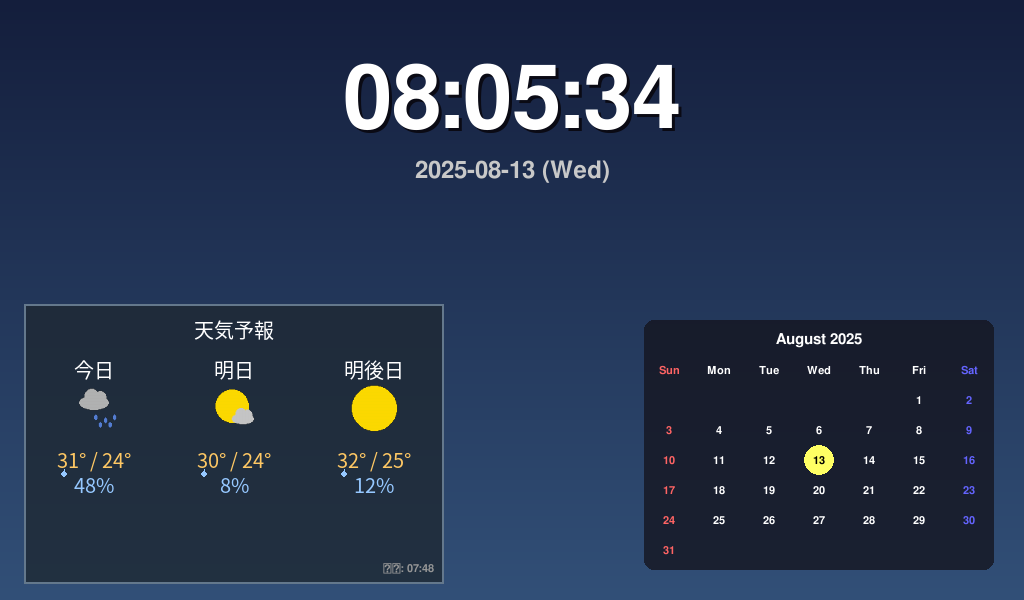
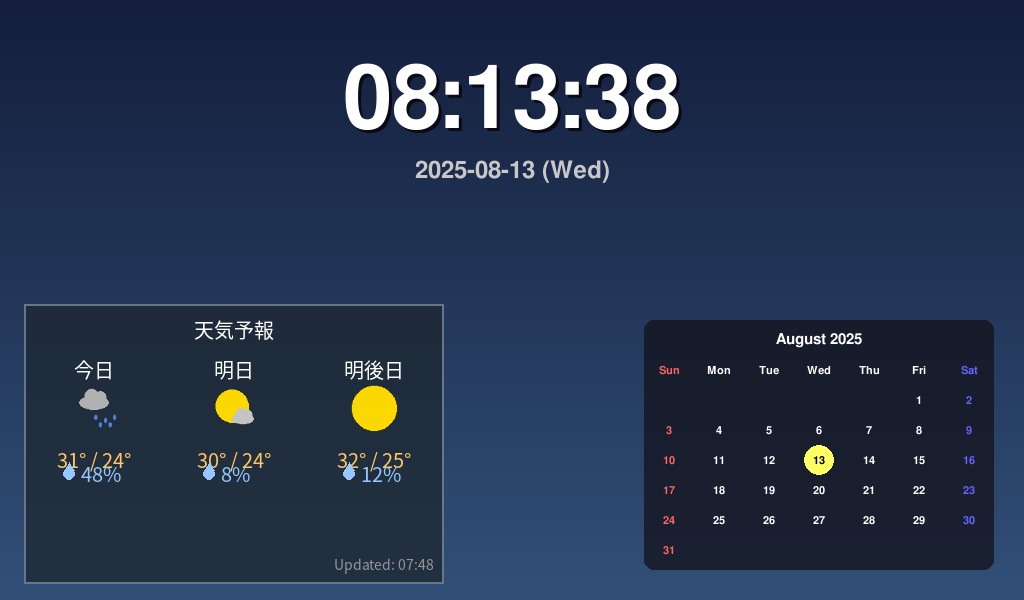
Fix overlapping text between temperature and precipitation
- Adjusted temperature position from y+90 to y+85
- Moved precipitation display from y+118 to y+125
- Increased spacing between temperature and precipitation for better readability

🤖 Generated with Claude Code

diff --git a/src/renderers/simple_weather_renderer.py b/src/renderers/simple_weather_renderer.py
@@ -331,7 +331,7 @@ class SimpleWeatherRenderer:
             temp_min = forecast.get('temp_min', 0)
             temp_text = f"{temp_max:.0f}° / {temp_min:.0f}°"
             temp_surface = self.font.render(temp_text, True, (255, 200, 100))
-            temp_rect = temp_surface.get_rect(centerx=x + day_width // 2, y=y + 90)
+            temp_rect = temp_surface.get_rect(centerx=x + day_width // 2, y=y + 85)
             screen.blit(temp_surface, temp_rect)
             
             # 降水確率
@@ -339,7 +339,7 @@ class SimpleWeatherRenderer:
             if precip > 0:
                 # より大きな雨滴アイコンを描画
                 drop_x = x + day_width // 2 - 25
-                drop_y = y + 118
+                drop_y = y + 125
                 
                 # 水滴の形を描画（サイズを大きく）
                 drop_color = (150, 200, 255)
